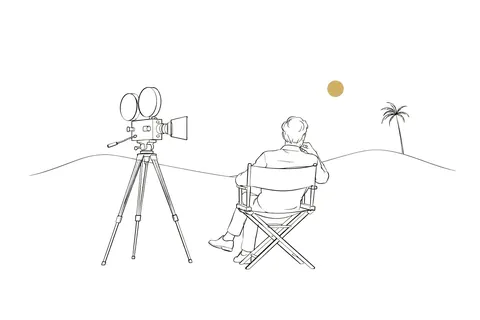
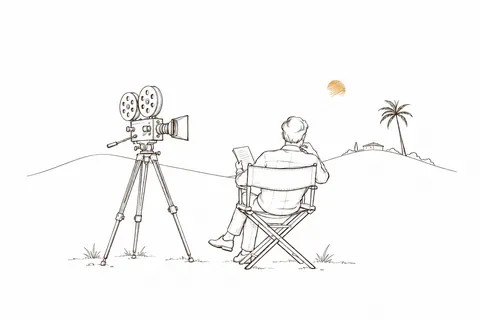
fix: refine hero line art and blend studio branding

diff --git a/public/components.js b/public/components.js
@@ -21,7 +21,7 @@ export function crop(key, label = '', className = '', sizes = '(max-width: 760px
 }
 
 // Display the supplied symbol and lettering directly, arranged horizontally for the header.
-export const logo = () => `<svg class="logo supplied-logo" viewBox="0 0 240 75" aria-hidden="true" focusable="false"><svg class="brand-symbol" x="0" y="1" width="54" height="70" viewBox="215 180 700 945"><image href="./assets/namaha-client-logo.jpg" width="1131" height="1600"/></svg><svg x="66" y="16" width="170" height="47" viewBox="178 1150 800 255"><image href="./assets/namaha-client-logo.jpg" width="1131" height="1600"/></svg></svg>`;
+export const logo = (placement = 'header') => `<svg class="logo supplied-logo" viewBox="0 0 240 75" aria-hidden="true" focusable="false"><defs><filter id="logo-paper-${placement}" x="0" y="0" width="100%" height="100%" color-interpolation-filters="sRGB"><feColorMatrix type="matrix" values="1 0 0 0 0  0 1 0 0 0  0 0 1 0 0  0 0 -1 0 1"/><feComponentTransfer><feFuncA type="linear" slope="1.6" intercept="-0.12"/></feComponentTransfer><feComposite in2="SourceAlpha" operator="in"/></filter></defs><g filter="url(#logo-paper-${placement})"><svg class="brand-symbol" x="0" y="1" width="54" height="70" viewBox="215 180 700 945"><image href="./assets/namaha-client-logo.jpg" width="1131" height="1600"/></svg><svg x="66" y="16" width="170" height="47" viewBox="178 1150 800 255"><image href="./assets/namaha-client-logo.jpg" width="1131" height="1600"/></svg></g></svg>`;
 export const button = (label, href, style = '') => `<a class="button ${style}" href="${href}"><span class="button-label">${label}</span>${arrow}</a>`;
 export function whatsappButton(floating = false) {
   const href = whatsappHref(siteConfig.whatsappNumber, siteConfig.whatsappMessage);
@@ -47,7 +47,7 @@ export function closing(page = '') {
   return `<section class="closing" aria-labelledby="closing-title"><div class="closing-image">${crop('banner', '', '', '(max-width: 760px) 100vw, 50vw')}</div><div class="closing-copy"><p class="eyebrow">EVERY GREAT STORY STARTS SOMEWHERE</p><h2 id="closing-title">Let’s create<br>something <em>meaningful.</em></h2><p>Have a story in mind? We’d love to be part of it.</p>${button('Start a conversation', page === 'contact' ? '#next' : './contact.html', 'light')}</div><span class="closing-mark" aria-hidden="true">N.</span></section>`;
 }
 export function footer() {
-  return `<footer class="footer"><div class="footer-top"><div class="footer-brand"><a href="./" aria-label="Namaha Studios — home">${logo()}</a><p>Ideas to images.<br>Stories to remember.</p></div><nav class="footer-nav" aria-label="Footer"><p class="footer-label">Explore</p><ul>${navigation.map(([key, name]) => `<li><a href="${pageHref(key)}">${name}</a></li>`).join('')}</ul></nav><div class="footer-connect"><p class="footer-label">Connect</p><a class="footer-social" href="${siteConfig.instagram}" target="_blank" rel="noopener noreferrer">${icon('instagram')}<span>@namaha_studios</span><span class="sr-only">(opens in a new tab)</span></a><a class="footer-social contact-email" href="mailto:${esc(siteConfig.email)}">${icon('mail')}<span>${esc(siteConfig.email)}</span></a><a class="footer-social" href="tel:+${siteConfig.phoneNumber}">${icon('phone')}<span>${esc(siteConfig.phoneDisplay)}</span></a><p class="footer-location">${icon('pin')}<span>${siteConfig.location}</span></p><a class="footer-talk" href="./contact.html">Start a project ${arrow}</a></div></div><div class="footer-bottom"><span>© ${new Date().getFullYear()} Namaha Studios</span><span class="demo-label">DESIGN PREVIEW · Illustrative project imagery</span><button class="text-button" type="button" data-privacy>Privacy</button><a href="#top" class="back-to-top">Back to top ${icon('up')}</a></div></footer>`;
+  return `<footer class="footer"><div class="footer-top"><div class="footer-brand"><a href="./" aria-label="Namaha Studios — home">${logo('footer')}</a><p>Ideas to images.<br>Stories to remember.</p></div><nav class="footer-nav" aria-label="Footer"><p class="footer-label">Explore</p><ul>${navigation.map(([key, name]) => `<li><a href="${pageHref(key)}">${name}</a></li>`).join('')}</ul></nav><div class="footer-connect"><p class="footer-label">Connect</p><a class="footer-social" href="${siteConfig.instagram}" target="_blank" rel="noopener noreferrer">${icon('instagram')}<span>@namaha_studios</span><span class="sr-only">(opens in a new tab)</span></a><a class="footer-social contact-email" href="mailto:${esc(siteConfig.email)}">${icon('mail')}<span>${esc(siteConfig.email)}</span></a><a class="footer-social" href="tel:+${siteConfig.phoneNumber}">${icon('phone')}<span>${esc(siteConfig.phoneDisplay)}</span></a><p class="footer-location">${icon('pin')}<span>${siteConfig.location}</span></p><a class="footer-talk" href="./contact.html">Start a project ${arrow}</a></div></div><div class="footer-bottom"><span>© ${new Date().getFullYear()} Namaha Studios</span><span class="demo-label">DESIGN PREVIEW · Illustrative project imagery</span><button class="text-button" type="button" data-privacy>Privacy</button><a href="#top" class="back-to-top">Back to top ${icon('up')}</a></div></footer>`;
 }
 export function dialogShell() {
   return `<dialog id="preview-dialog" aria-labelledby="dialog-title"><div class="dialog-bar"><span>THE NAMAHA NOTEBOOK</span><button class="dialog-close" type="button" aria-label="Close">${icon('close')}</button></div><div id="dialog-content"></div></dialog>`;

diff --git a/public/sketch-icons.js b/public/sketch-icons.js
@@ -13,7 +13,6 @@ const strokes = {
   mail: ['M6 11Q24 9 41 11L42 36Q24 39 6 37Z','M7 12Q16 20 24 26Q33 19 41 12M7 35l11-10M40 35l-10-10'],
   phone: ['M13 6Q6 9 8 19C12 33 26 43 36 41Q41 39 42 34L32 27L27 31Q18 26 16 20L20 16L15 6Z','M10 11l4 8M32 35l5 3'],
   pin: ['M24 43C18 36 8 25 9 18C8-1 40 0 39 19C40 27 29 39 24 43.5','M24 11C15 10 16 25 25 24C33 23 32 11 24 11'],
-  whatsapp: ['M41 22C42 8 27 3 17 7C5 11 4 24 10 32L6 42L17 38C29 44 42 34 41 22.5','M17 14C10 18 20 31 30 32Q35 33 36 28L29 24L26 27Q20 24 18 20L21 17L18 13'],
   play: ['M17 10Q28 17 38 24Q29 30 17 37Z'],
   arrow: ['M10 37Q23 25 37 12M23 12Q31 13 38 11Q36 20 37 27'],
   right: ['M7 24Q23 23 40 24M30 14Q35 20 41 24L30 34'],
@@ -27,6 +26,9 @@ const strokes = {
 };
 
 export function icon(name, className = '') {
+  // Recognizable brand glyph, Simple Icons v13.21.0 (CC0):
+  // https://github.com/simple-icons/simple-icons/blob/13.21.0/icons/whatsapp.svg
+  if (name === 'whatsapp') return `<svg class="icon whatsapp-brand ${className}" viewBox="0 0 24 24" fill="currentColor" aria-hidden="true" focusable="false"><path d="M17.472 14.382c-.297-.149-1.758-.867-2.03-.967-.273-.099-.471-.148-.67.15-.197.297-.767.966-.94 1.164-.173.199-.347.223-.644.075-.297-.15-1.255-.463-2.39-1.475-.883-.788-1.48-1.761-1.653-2.059-.173-.297-.018-.458.13-.606.134-.133.298-.347.446-.52.149-.174.198-.298.298-.497.099-.198.05-.371-.025-.52-.075-.149-.669-1.612-.916-2.207-.242-.579-.487-.5-.669-.51-.173-.008-.371-.01-.57-.01-.198 0-.52.074-.792.372-.272.297-1.04 1.016-1.04 2.479 0 1.462 1.065 2.875 1.213 3.074.149.198 2.096 3.2 5.077 4.487.709.306 1.262.489 1.694.625.712.227 1.36.195 1.871.118.571-.085 1.758-.719 2.006-1.413.248-.694.248-1.289.173-1.413-.074-.124-.272-.198-.57-.347m-5.421 7.403h-.004a9.87 9.87 0 01-5.031-1.378l-.361-.214-3.741.982.998-3.648-.235-.374a9.86 9.86 0 01-1.51-5.26c.001-5.45 4.436-9.884 9.888-9.884 2.64 0 5.122 1.03 6.988 2.898a9.825 9.825 0 012.893 6.994c-.003 5.45-4.437 9.884-9.885 9.884m8.413-18.297A11.815 11.815 0 0012.05 0C5.495 0 .16 5.335.157 11.892c0 2.096.547 4.142 1.588 5.945L.057 24l6.305-1.654a11.882 11.882 0 005.683 1.448h.005c6.554 0 11.89-5.335 11.893-11.893a11.821 11.821 0 00-3.48-8.413Z"/></svg>`;
   const lines = strokes[name] || strokes.spark;
   return `<svg class="icon hand-icon ${className}" viewBox="0 0 48 48" fill="none" stroke="currentColor" stroke-width="1.35" stroke-linecap="round" stroke-linejoin="round" aria-hidden="true" focusable="false">${lines.map(d=>`<path d="${d}"/>`).join('')}</svg>`;
 }

diff --git a/public/design-system.css b/public/design-system.css
@@ -8,7 +8,7 @@
 @view-transition { navigation: none; }
 
 @layer refine {
-  .supplied-logo { filter: none; mix-blend-mode: multiply; aspect-ratio: 240 / 75; }
+  .supplied-logo { filter: none; mix-blend-mode: normal; aspect-ratio: 240 / 75; }
   .ixora-flight { position: fixed; top: 0; left: 0; z-index: 45; pointer-events: none; object-fit: contain; will-change: transform; }
   html.menu-open .ixora-flight, html.modal-open .ixora-flight { visibility: hidden; }
   @media (prefers-reduced-motion: reduce) { .ixora-flight { display: none !important; } }

diff --git a/QA.md b/QA.md
@@ -103,3 +103,11 @@ The flower is now hidden at rest and on scroll. Activating a link or button flie
 All UI icons, including services, social/contact symbols, arrows, menu/close, playback, gallery controls, decorative stars and select chevrons, use individually drawn asymmetric path contours. The supplied logo is preserved. Contact and footer now show `+91 70228 33448` and `namahastudios.in@gmail.com`; tel/mailto and WhatsApp links use those details. Organization metadata also contains the supplied phone and email. The form still needs its Web3Forms public access key before it can send email.
 
 All 21 unit tests and build verification pass. A template-text regression check guards against visible interpolation placeholders. Browser checks at 320/390/768/1440px cover seven routes, no overflow, idle/scroll-hidden flower, click-triggered placement right of the logo, automatic clearing, destination navigation feedback, reduced motion, live contact URLs, and a mocked pending/successful form request. Desktop and mobile captures in `qa/click-ixora-*` were visually inspected. No real enquiry or WhatsApp message was sent. External fonts were omitted during isolated browser checks. Changes remain on the local preview branch.
+
+## Hero detail, logo blending and WhatsApp correction — 2 November 2026
+
+Refined only the Home hero illustration with a modest increase in fine camera/chair/clothing and landscape line detail, preserving its sparse composition. Exact prompt and source path are recorded in `MINIMAL_PREVIEW.md`. The supplied logo is displayed through an alpha filter that removes the JPEG paper; a final SourceAlpha mask prevents opaque padding around the cropped symbol and lettering. WhatsApp now uses the recognizable Simple Icons v13.21.0 brand glyph, with its source attributed in `public/sketch-icons.js`.
+
+All 21 unit tests and production checks pass. Re-ran the seven-route/four-width interaction checks. Home, the scrolled header and WhatsApp were visually reviewed at 390 and 1440px. A separate two-background logo fixture contains zero unwanted near-white or black padding pixels. Header and footer filter IDs remain unique. Review screenshots are `qa/refined-hero-*`, `qa/refined-logo-scroll-*`, `qa/correct-whatsapp-*` and `qa/logo-transparency-check.png`. External fonts and physical devices remain outside these local checks. Main is unchanged.
+
+Follow-up: replaced the Home sun's solid ochre fill with visibly separated golden-orange sketch strokes, matching the client's latest reference. The rest of the refined illustration was preserved. Rebuilt every responsive Home variant, passed production verification and rechecked the desktop/mobile Home, logo and WhatsApp screenshots.

diff --git a/MINIMAL_PREVIEW.md b/MINIMAL_PREVIEW.md
@@ -4,6 +4,12 @@ Latest revision: ixora is now click feedback, not a scroll decoration. All UI ic
 
 Current direction: minimal line drawings with a little interior detail. Use thin contours and a few camera features, facial/profile lines and clothing folds. Keep backgrounds open. Avoid dark fills, heavy strokes, crosshatching, engraving and dense scenery. The client's camera/clapperboard and director sketches set the detail ceiling. This supersedes the earlier detailed illustration direction in `ILLUSTRATION_PROMPTS.md`.
 
+Latest hero refinement: `public/assets/source/hero-refined.png` is an imagegen edit of the existing Home drawing, adding reel holes, lens rings and camera controls, tripod joints, light clothing seams, chair stitching, a script page, a small distant tiled-roof outline and a few grasses. The camera/director layout, light line work, open white background and small ochre sun remain. Delivery files are `public/assets/hero-line.jpg` and its responsive JPEG/WebP siblings. Prompt: retain the existing airy 3:2 composition; add about 25% more hand-sketched line detail; keep at least 65% open space; no dark fills, heavy outlines, dense hatching, shaded volumes, text or elaborate scenery.
+
+The supplied logo's near-white paper is removed at display time with an SVG alpha filter, masked to the original image alpha. This preserves the supplied artwork and prevents light rectangles or opaque filter padding over the translucent header. The WhatsApp symbol now uses the recognizable Simple Icons v13.21.0 brand path (CC0); the other interface symbols retain their hand-drawn contours.
+
+Sun refinement: the final Home source is `public/assets/source/hero-refined-sketched-sun.png`, created with the built-in image editor from `hero-refined.png`. Prompt: change only the small filled sun into fine, uneven diagonal ochre/golden-orange pencil strokes with visible white gaps and a delicate broken circular edge; preserve its position/size and all other illustration details exactly; no flat fill, gradients, texture, text or added scenery. The client's latest sketch was used only as a reference for the sun treatment. The pipeline continues to deliver `public/assets/hero-line.jpg` plus its responsive JPEG/WebP variants.
+
 ## Artwork
 
 The nine earlier outline illustrations are restored from `public/assets/illustration-originals/`. Their local editable pipeline inputs are `public/assets/source/{name}-minimal.jpg` (hero, aboutHero, servicesHero, workHero, galleryHero, contactHero, journey, storyboard and development).
